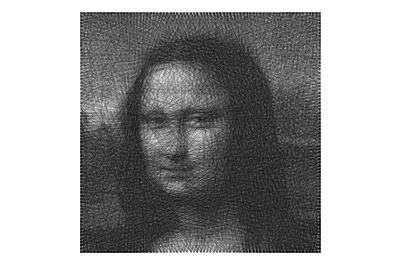
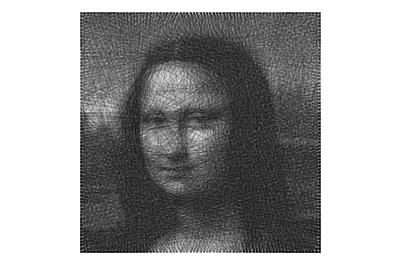
test: add beam search width example

Changed region(s): [[0.18, 0.0302, 0.81, 0.966], [0.78, 0.9057, 0.81, 0.9358]]

diff --git a/examples/README.md b/examples/README.md
@@ -23,7 +23,7 @@ strandify lincoln.jpg lincoln_out.jpg -O 0.3 -o 0.1 -j 3
 ## Mona Lisa
 
 ```sh
-strandify mona_lisa.jpg mona_lisa_out.jpg -S square -o 0.04 -O 0.1
+strandify mona_lisa.jpg mona_lisa_out.jpg -S square -o 0.04 -O 0.1 -b 5
 
 ```
 
